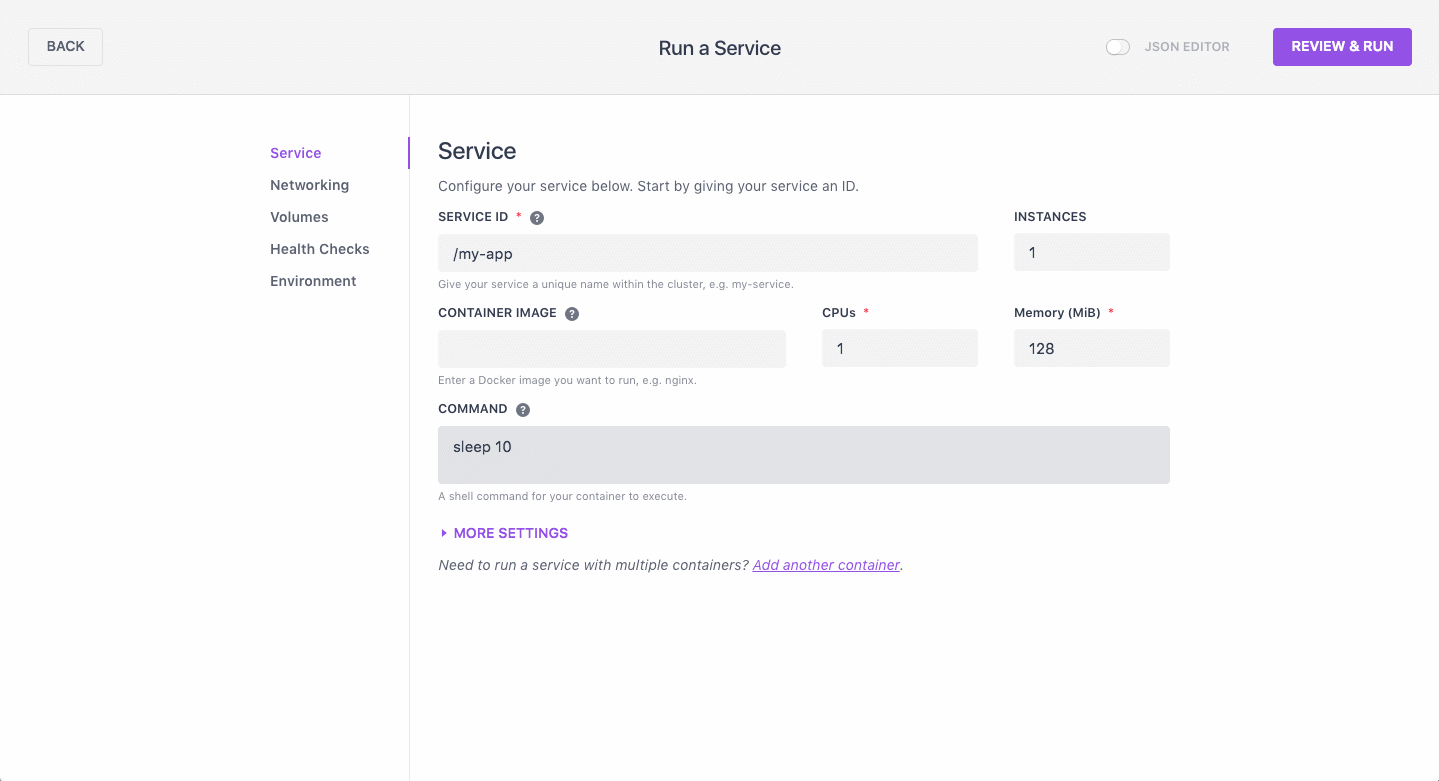
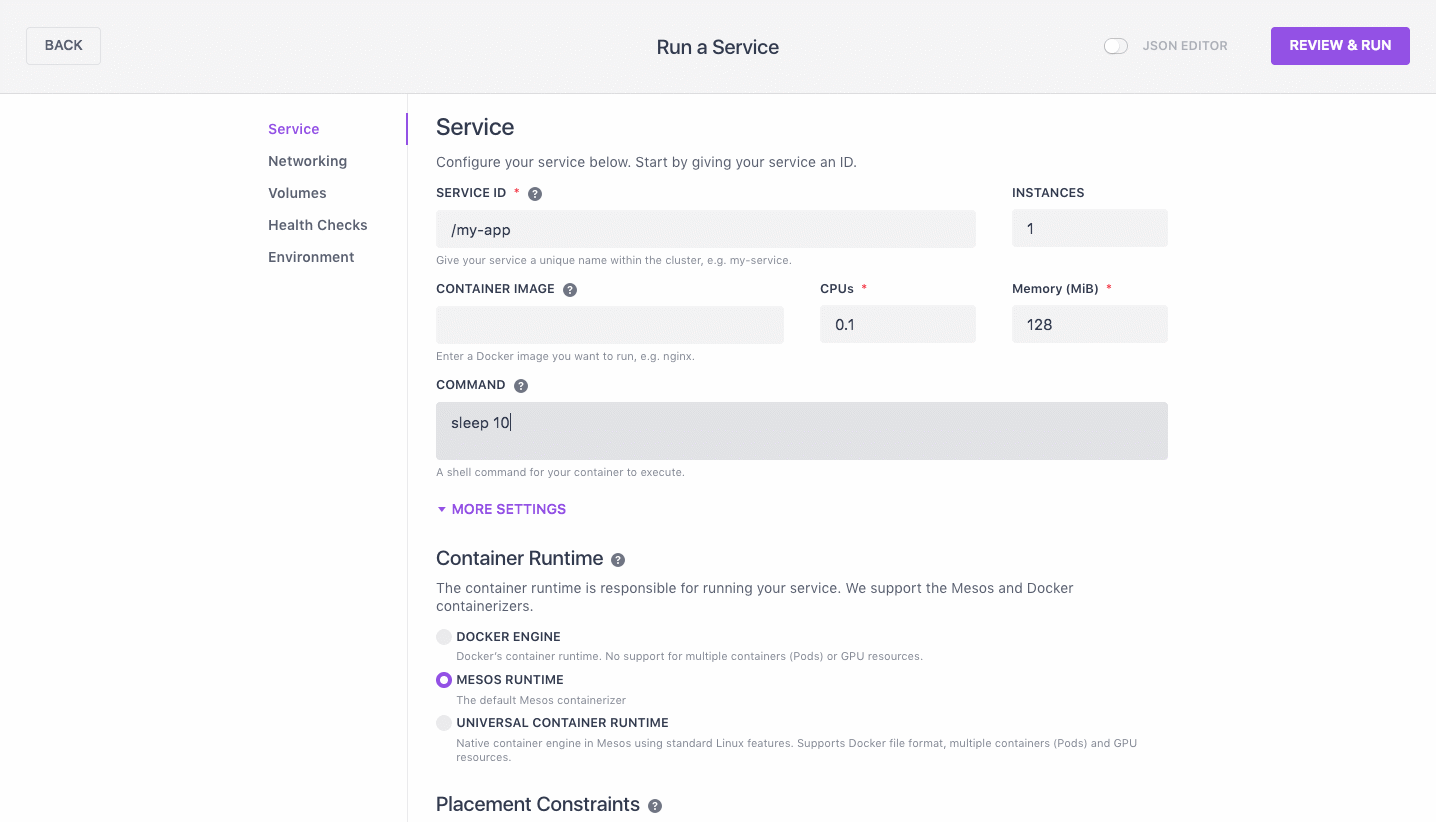
Fix create service tutorial

diff --git a/1.9/usage/tutorials/create-service.md b/1.9/usage/tutorials/create-service.md
@@ -16,7 +16,7 @@ This tutorial shows how to create and deploy a simple one-command service and a 
     
    1. In the **SERVICE ID** field, enter a name for your service. 
    1. In the **Command** field, enter `sleep 10`.
-   1. In the **Container Image** field, enter a container image to use.
+   1. In the **Container Image** field, enter a Docker container image to use, or click **MORE SETTINGS > MESOS RUNTIME** to use the default Mesos containerizer.
 1. Click **REVIEW & RUN**.
 
     ![Create a service in the DC/OS UI](/docs/1.9/usage/tutorials/img/deploy-svs-ui.png)
